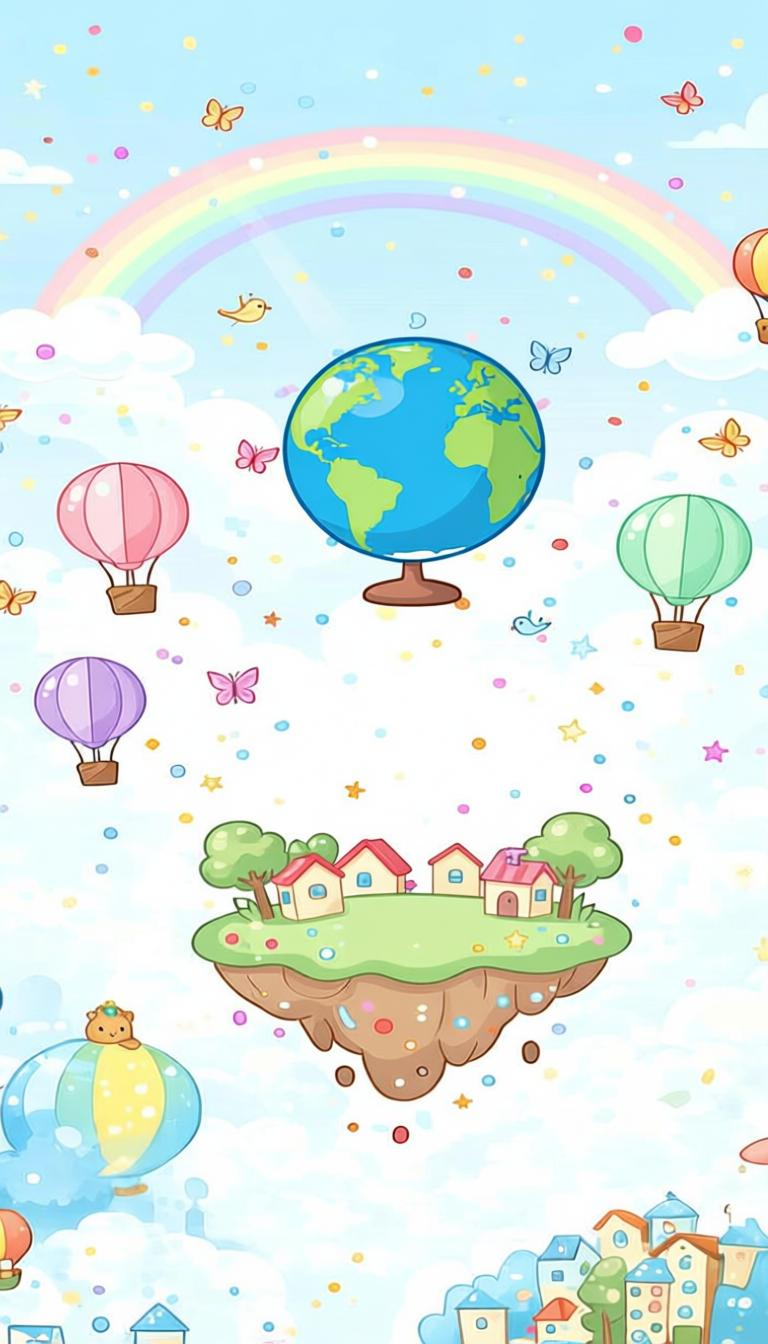
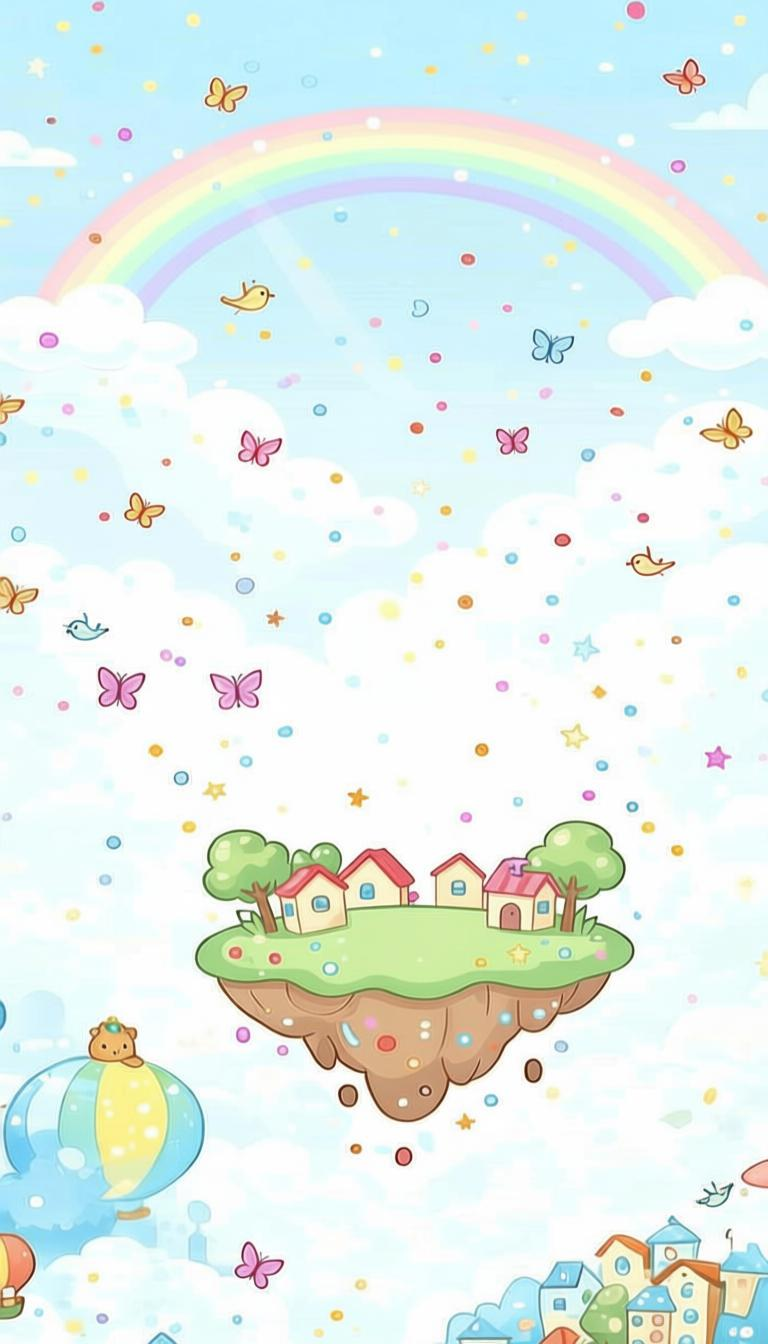
done endless

diff --git a/src/scenes/Home.ts b/src/scenes/Home.ts
@@ -303,6 +303,15 @@ export class Home extends Phaser.Scene {
     page.innerHTML = `
       <img src="/images/bg_playground.png" alt="Playground Background" style="position: absolute; top: 0; left: 0; width: 100%; height: 100%; object-fit: cover; z-index: 0; pointer-events: none;" />
 
+      <img src="/images/bg_playground.png" alt="Playground Background" style="position: absolute; top: 0; left: 0; width: 100%; height: 100%; object-fit: cover; z-index: 0; pointer-events: none;" />
+
+      <!-- Page Title (Added here) -->
+      <div style="position: absolute; top: 20px; left: 52%; transform: translateX(-50%); z-index: 10;">
+        <span style="font-family: ${theme.font.display}; font-size: 28px; font-weight: 700; color: #FF6B6B; text-shadow: 2px 2px 0px rgba(0,0,0,0.2);">
+          Friends Challenge
+        </span>
+      </div>
+
       <div style="position: relative; z-index: 1; display: flex; gap: 10px; flex: 1; padding: 12px; padding-bottom: 90px; box-sizing: border-box; height: 100%;">
         
         <!-- Left Column: Level Images -->
@@ -529,7 +538,7 @@ export class Home extends Phaser.Scene {
         
         <!-- Main Title -->
         <div style="display:flex; flex-direction:column; align-items:center; gap:4px; flex-shrink: 0;">
-          <span style="font-family: 'Fredoka', sans-serif; font-size: 22px; font-weight: 700; color: ${c.textPrimary}; text-shadow: 1px 1px 2px rgba(255,255,255,0.4);">
+          <span style="font-family: ${theme.font.display}; font-size: 28px; font-weight: 700; color: #FFC93C; text-shadow: 2px 2px 0px rgba(0,0,0,0.2);">
             Daily Challenge
           </span>
         </div>
@@ -613,7 +622,7 @@ export class Home extends Phaser.Scene {
           <div style="flex: 1; min-width: 0; display: flex; flex-direction: column;">
             
             <!-- 1. IMAGE POSITION: Change margin-top to push the image down -->
-            <div style="flex: 0 0 35px; display: flex; align-items: center; justify-content: center; margin-top: 170px; margin-bottom: 4px;">
+            <div style="flex: 0 0 35px; display: flex; align-items: center; justify-content: center; margin-top: 186px; margin-bottom: 4px;">
               <img src="/images/weektop10.png" alt="This Week Top 10" style="max-height: 100%; max-width: 100%; width: auto; height: auto;" />
             </div>
             
@@ -630,13 +639,20 @@ export class Home extends Phaser.Scene {
           </div>
         </div>
 
-        <button id="btn-start-daily" style="
-          background: ${theme.color.accent}; color: #FFFFFF; border: none; 
-          border-radius: 12px; padding: 12px 0; width: 100%; max-width: 320px; 
-          font-family: 'Fredoka', sans-serif; font-weight: 600; font-size: 16px; 
-          cursor: pointer; box-shadow: 0 4px 12px rgba(0,0,0,0.3); margin: 0 auto; flex-shrink: 0;">
-          Start Today's Challenge
-        </button>
+        <!-- Custom Daily Start Button Image (Absolute Positioned) -->
+        <img id="btn-start-daily" src="/images/dailystart.png" alt="Start Daily Challenge" style="
+          position: absolute; 
+          bottom: 310px; /* CHANGE THIS to move UP (e.g., 60px) or DOWN (e.g., 10px) */
+          left: 75%; /* CHANGE THIS to move LEFT (e.g., 30%) or RIGHT (e.g., 70%) */
+          transform: translateX(-50%); /* Keeps it perfectly centered on the % mark */
+          
+          width: 100%; 
+          max-width: 200px; /* CHANGE THIS number to make the button bigger or smaller! */
+          height: auto; 
+          cursor: pointer; 
+          z-index: 20; 
+          filter: drop-shadow(0 4px 6px rgba(0,0,0,0.3));" 
+        />
 
       </div>
     `;
@@ -770,7 +786,7 @@ export class Home extends Phaser.Scene {
 
   // ── Page 3: Endless ──
 
-  private renderEndlessPage(access: AccessResult, auth: AuthState) {
+    private renderEndlessPage(access: AccessResult, auth: AuthState) {
     const c = theme.color;
     const page = this.containerEl.querySelector('#page-endless') as HTMLElement;
 
@@ -790,15 +806,39 @@ export class Home extends Phaser.Scene {
       return;
     }
 
+    // Apply full-screen background and remove default padding
+    page.style.padding = '0';
+    page.style.background = 'none';
+
     page.innerHTML = `
-      <div style="flex:1;display:flex;flex-direction:column;align-items:center;justify-content:center;gap:14px;text-align:center;">
-        <div style="${panel('padding:28px 22px;')}max-width:320px;display:flex;flex-direction:column;gap:10px;align-items:center;">
-          <span style="font-family:${theme.font.display};font-size:20px;font-weight:800;color:${c.textPrimary};">
+      <!-- Full-Screen Background Layer -->
+      <img src="/images/endless.png" alt="Endless Background" style="position: absolute; top: 0; left: 0; width: 100%; height: 100%; object-fit: cover; z-index: 0; pointer-events: none;" />
+
+      <!-- Main Content Layer -->
+      <div style="position: relative; z-index: 1; flex: 1; min-height: 0; overflow: hidden;">
+        
+        <!-- Page Title (Added here) -->
+        <div style="position: absolute; top: 30px; left: 50%; transform: translateX(-50%); z-index: 10;">
+          <span style="font-family: ${theme.font.display}; font-size: 28px; font-weight: 700; color: #8FD694; text-shadow: 2px 2px 0px rgba(0,0,0,0.2);">
             Endless Mode
           </span>
-          <span style="font-size:12.5px;color:${c.textMuted};">Climb Easy → Boss, then hold on as long as you can.</span>
         </div>
-        ${primaryButton('Start', 'btn-start-endless', 'max-width:320px;')}
+
+        <!-- Custom Start Button Image (Absolute Positioned for total freedom) -->
+        <img id="btn-start-endless" src="/images/endstart.png" alt="Start Endless" style="
+          position: absolute; 
+          top: 90%; /* CHANGE THIS to move UP/DOWN (e.g., 30% or 70%) */
+          left: 50%; /* CHANGE THIS to move LEFT/RIGHT (e.g., 30% or 70%) */
+          transform: translate(-50%, -50%); /* Keeps the center of the image exactly on the % mark */
+          
+          width: 100%; 
+          max-width: 100px; /* CHANGE THIS for size */
+          height: auto; 
+          cursor: pointer; 
+          z-index: 20; 
+          filter: drop-shadow(0 4px 6px rgba(0,0,0,0.3));" 
+        />
+
       </div>
     `;
 
